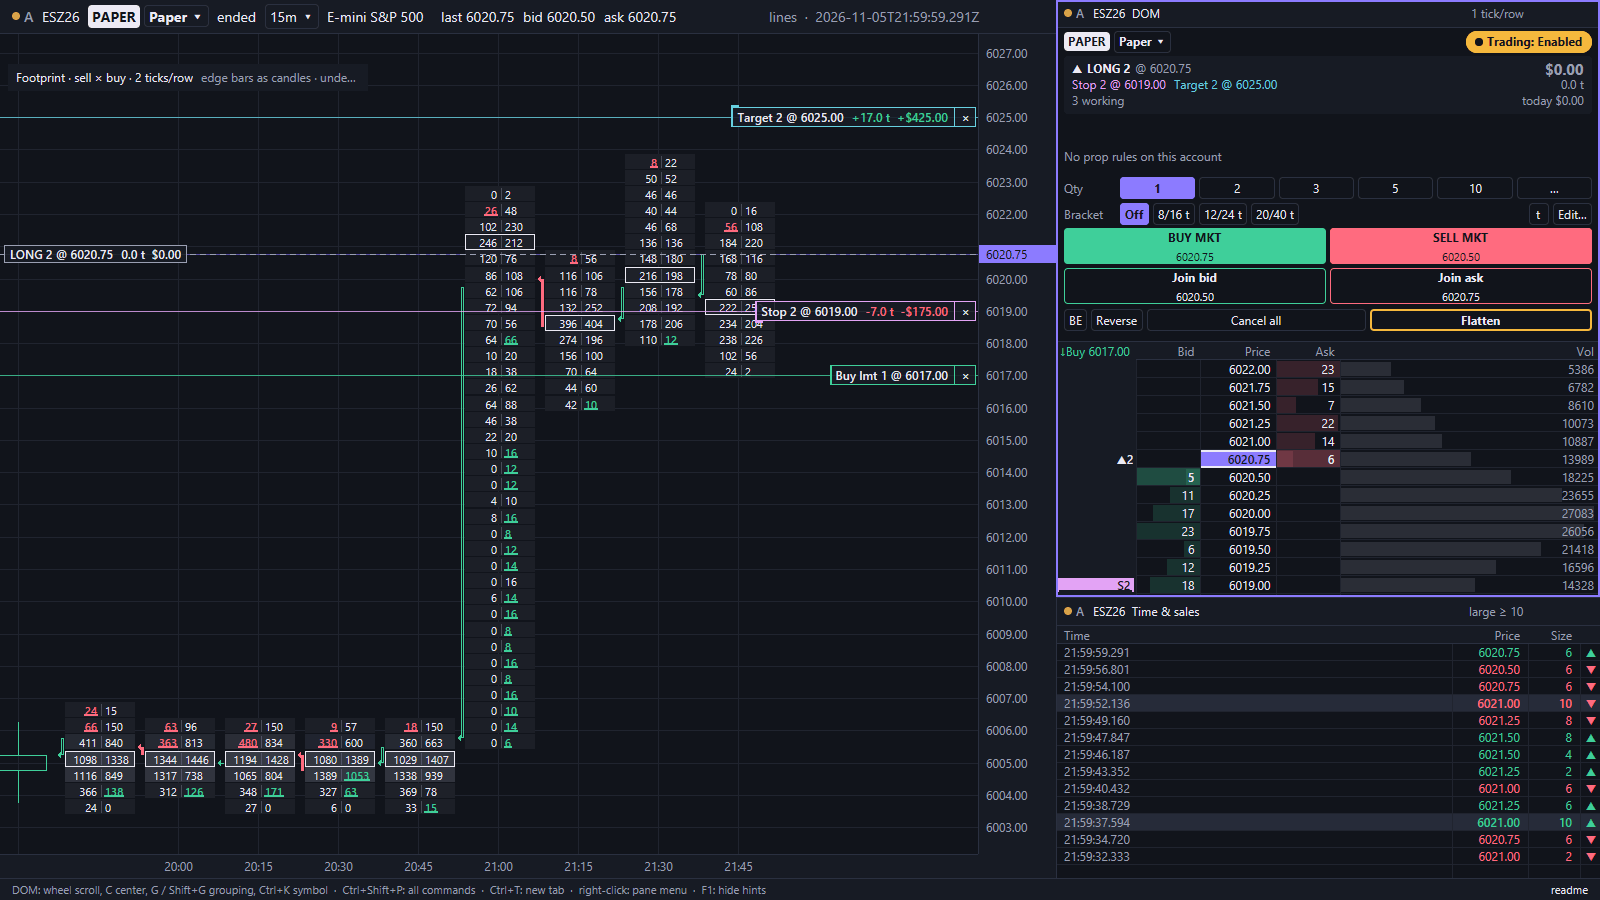
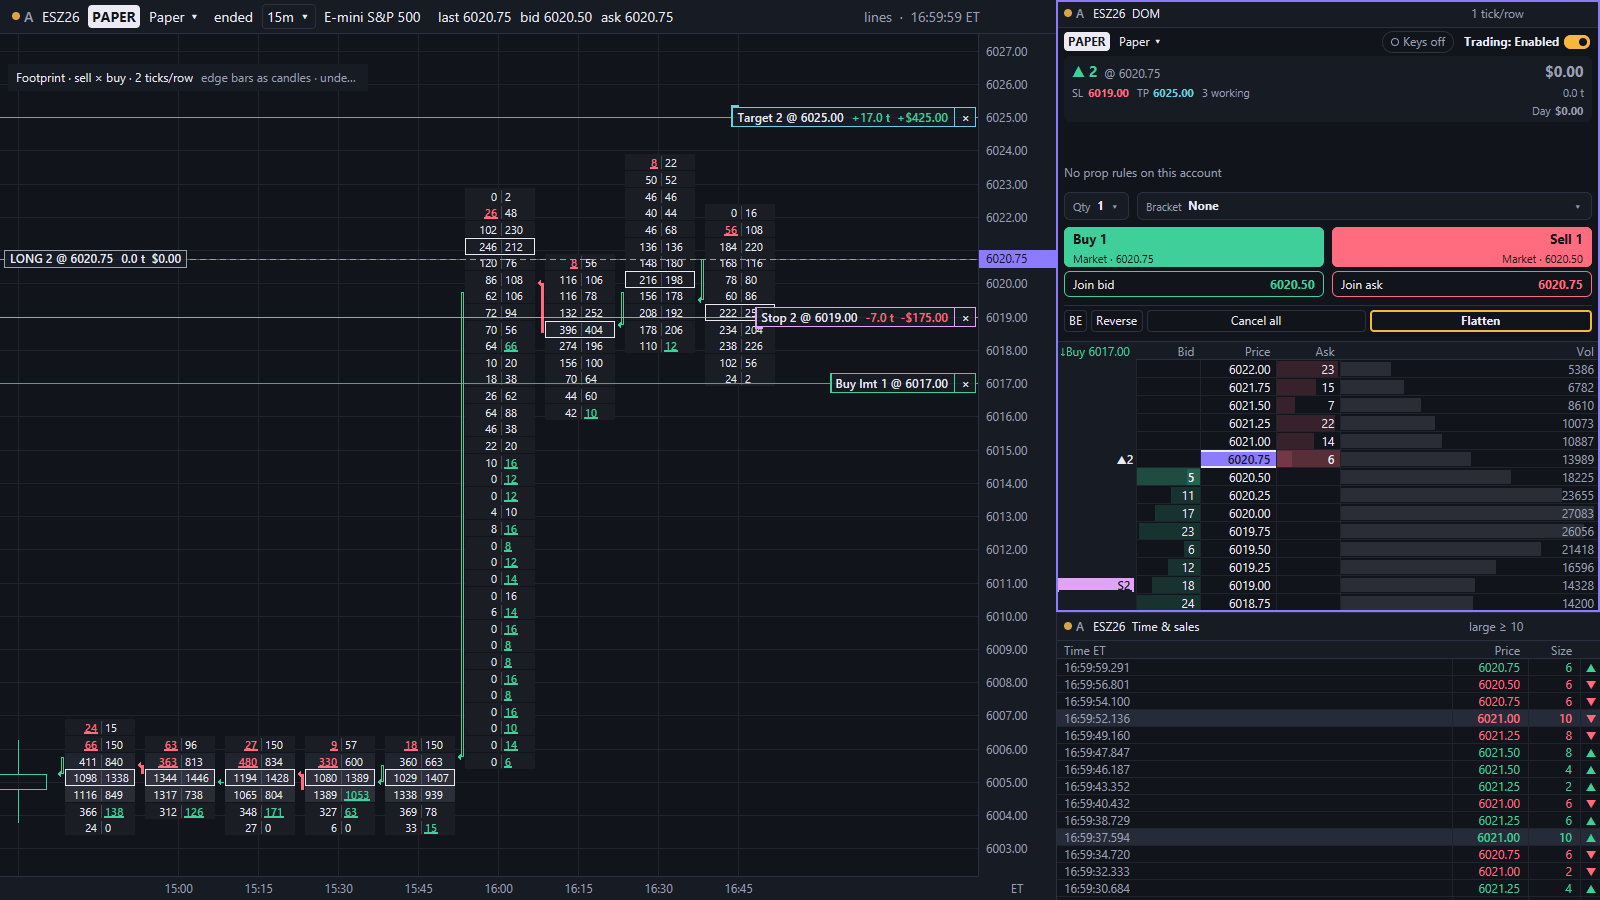
README: refresh for v0.3.12
Trading (trade panel, Positions, Reset paper account, Reverse, SPY option
chart triggers), charts (Volume, ruler, external levels), interface, data
(Record / Stop), in-app updates, and a pre-alpha banner. Three hero images
regenerated from synthetic data; the recipe in docs/architecture.md follows.

diff --git a/README.md b/README.md
@@ -8,36 +8,59 @@
 
 [![CI](https://github.com/anaremore/lines/actions/workflows/ci.yml/badge.svg?branch=main)](https://github.com/anaremore/lines/actions/workflows/ci.yml)
 
-![Dark theme: a footprint chart with a long paper position, its stop and target lines and a working buy limit, beside the DOM and time & sales](docs/img/chart-orders-footprint.png)
+![Dark theme: a footprint chart with a long paper position, its stop and target lines and a working buy limit, beside the DOM with its trade panel and time & sales](docs/img/chart-orders-footprint.png)
 
 <sub>All screenshots use synthetic data, rendered with Lines' screenshot mode.</sub>
 
-## Status: pre-alpha
-
-Lines trades on paper only: no live broker connections and no live order entry. Data comes from a mock futures feed, the Coinbase and Kraken public crypto feeds, and replays of recorded sessions. Live futures connectors (Rithmic, CQG) are planned and not in public builds.
+> [!IMPORTANT]
+> **Pre-alpha. Paper trading only.** Lines has no live order routing: every order goes to a simulated paper account. Public builds read the mock futures feed, Coinbase and Kraken public data, and replays. Official builds add vendor connectors.
 
 ## What works today
 
-- **Data:** a simulated ES futures feed, Coinbase and Kraken public feeds, record and deterministic replay, and a local market-data store for live feeds, so charts and order flow open instantly on restart.
-- **Charts:** minute to weekly candles, plus bars built from counted trades: tick (`500t`), volume (`500v`), range (`10r`) and seconds (`30s`; volume, range and seconds bars are on `main`, after v0.3.0). Footprint, cumulative delta, VWAP with bands, and a volume profile.
-- **Drawings:** lines, rays, trend lines, zones, notes and a measure tool, with color, line style, width and opacity per drawing.
-- **DOM:** a tick-indexed ladder with depth, volume at price and a price trail; click, drag and hotkey paper orders; brackets; Flatten and Cancel all always visible.
-- **Chart trading:** working orders as lines you can drag or cancel, and stop/target handles on the position line.
-- **Risk:** your own guardrails (daily loss, losing-streak cooldown, max trades, max position, no entries before the close) and prop-firm rule presets (trailing drawdown, daily loss, contract cap) that apply to paper accounts.
-- **Journal:** every round trip with exact P&L and fees, MAE/MFE, tags and notes, stats, CSV export.
-- **Workspaces:** grids, tabs, pop-out windows and link groups, saved and restored. Command palette, Settings window, symbol picker.
-- **Look:** dark and light themes, a colorblind-safe palette, and direction never shown by color alone.
+**Trading (paper)**
+- **DOM:** a tick-indexed ladder with depth, volume at price and a price trail; click, drag and hotkey orders; brackets.
+- **Trade panel:** the position card (size, average, open P&L, stop and target, day P&L), quantity and bracket lists, large Buy and Sell, Join bid / Join ask, and BE, Reverse, Cancel all and Flatten always in reach.
+- **One-step Reverse** (Ctrl+Alt+R): cancels, closes reduce-only, then opens the other side as its own order.
+- **Chart trading:** working orders as lines you drag or cancel; stop and target handles on the position line.
+- **Positions pane** (Ctrl+Shift+J): every open position on every account, with Flatten per row and Flatten all.
+- **Reset paper account** from the palette, the account menu or Settings: it flattens first and asks for a second press.
+- **Options on SPY:** an option chain, and an option chart where Entry, Stop and Target are lines on the underlying's price, held as triggers by the trading core ([decision 0029](docs/decisions/0029-option-chart-and-underlying-triggers.md)).
+- **Risk:** your own guardrails (daily loss, losing-streak cooldown, max trades, max position, no entries before the close, economic-calendar blackouts) and prop-firm rule presets (trailing drawdown, daily loss, contract cap).
+- **Journal:** every round trip with exact P&L and fees, MAE/MFE, tags, notes, stats and CSV export.
+
+**Charts**
+- Minute to weekly candles, plus tick (`500t`), volume (`500v`), range (`10r`) and seconds (`30s`) bars.
+- Studies: footprint, volume profile, VWAP with bands, cumulative delta, and Volume in a lower pane or as an overlay.
+- External levels: a plug-in source of price levels drawn on the chart, recorded and replayed with the data.
+- Drawings: lines, rays, trend lines, zones and notes, each with its own style.
+- **Ruler:** Shift+drag measures ticks, points, P&L, bars and time with no tool to pick; move or resize it, and choose which parts show.
+
+**Interface**
+- Right-click menus on panes, tabs, orders and drawings.
+- UI zoom from 80 to 150 % (Ctrl+= / Ctrl+− / Ctrl+0).
+- Floating pop-up panels: palette, symbol picker, studies, style editor and order list.
+- Display time zone: exchange (ET) by default, your system's, or any zone.
+- Dark and light themes, a colorblind-safe palette, and direction never shown by color alone.
+- Workspaces: grids, tabs, pop-out windows and link groups, saved and restored.
+
+**Data**
+- Coinbase and Kraken public feeds (spot and perpetuals), a simulated ES futures feed, and deterministic replay.
+- **Record / Stop recording** from the app: live feeds and levels go to the data folder, with REC in the footer.
+- A local market-data store for live feeds, so charts and order flow open at once on restart.
+
+**Updates**
+- In-app updates on Windows: Lines downloads a new release, checks its SHA-256 and signature, and asks before it restarts. A restart waits while a position, working order or armed trigger is open, and the previous version is kept for rollback. v0.3.12 is the last version you install by hand.
 
 Prices and money are exact integers, never floating point.
 
 | | |
 |---|---|
-| ![A 500-trade tick chart with session VWAP and 1σ/2σ bands](docs/img/tick-chart.png) | ![Light theme: a 5-minute chart with a long paper position, its stop and target, beside the DOM and time & sales](docs/img/light.png) |
-| Tick chart (500 trades per bar) with VWAP bands | Light theme |
+| ![Light theme: a 5-minute chart with a split Volume pane and a paper position, beside the DOM and the Positions pane](docs/img/light.png) | ![Dark theme: a 500-trade tick chart with VWAP bands, external levels and a ruler measurement](docs/img/tick-chart.png) |
+| Light theme, Volume study and Positions pane | Tick chart with VWAP bands, levels and the ruler |
 
 ## Install
 
-Download your platform's archive from the [latest release](https://github.com/anaremore/lines/releases): a zip for Windows x64 and macOS (Apple silicon), a tar.gz for Linux x64. Extract it and run `lines.exe` (Windows), `Lines.app` (macOS) or `lines` (Linux). SHA-256 checksums are attached. Builds are not code-signed yet, so Windows and macOS may warn on first launch.
+Download your platform's archive from the [latest release](https://github.com/anaremore/lines/releases): a zip for Windows x64 and macOS (Apple silicon), a tar.gz for Linux x64. Extract it and run `lines.exe` (Windows), `Lines.app` (macOS) or `lines` (Linux). SHA-256 checksums are attached. Builds aren't code-signed, so Windows and macOS may warn on first launch. Windows updates itself from then on; on macOS and Linux, download each new release.
 
 ## Quick start
 
@@ -45,29 +68,33 @@ Download your platform's archive from the [latest release](https://github.com/an
 lines --source mock                           # simulated ES futures, any hour; paper trading works
 lines --source coinbase --instrument BTC/USD  # live public crypto data, 24/7
 lines --source kraken --instrument BTC/USD.KR
+lines --source replay --replay session.lfr --speed 10
 lines --help                                  # every option
 ```
 
-To trade on paper, enable trading in the DOM's header (or Ctrl+Shift+Space), then click the bid column to buy and the ask column to sell. Shift+click places a stop.
+To trade on paper, turn on the Trading switch in the DOM's trade panel (or Ctrl+Shift+Space), then click the bid column to buy and the ask column to sell. Shift+click places a stop.
 
 ## Keyboard basics
 
-"Ctrl" is Cmd on macOS.
+"Ctrl" is Cmd on macOS. The palette lists every command with its key.
 
 | Key | Action |
 |---|---|
-| Ctrl+Shift+P | Command palette: every command, with its key |
+| Ctrl+Shift+P | Command palette |
 | Ctrl+, | Settings |
 | Ctrl+K, or type a letter on a chart | Symbol picker |
-| `5` / `1h` / `500t` + Enter (`500v` / `10r` / `30s` after v0.3.0) | Change the chart's timeframe |
-| Ctrl+I | Studies (VWAP, volume profile, footprint, cumulative delta) |
-| Alt+H / Alt+T / Alt+Z / Alt+N / Alt+U | Horizontal line, trend line, zone, note, measure |
-| Ctrl+Shift+Space | Enable or disable DOM trading |
+| `5` / `1h` / `500t` / `500v` / `10r` / `30s` + Enter | Change the chart's timeframe |
+| Ctrl+I | Studies |
+| Shift+drag on a chart | Ruler |
+| Alt+H / Alt+T / Alt+Z / Alt+N | Horizontal line, trend line, zone, note |
+| Ctrl+Shift+Space | Trading on or off (DOM) |
 | Ctrl+Alt+B / Ctrl+Alt+S | Buy / sell market |
+| Ctrl+Alt+R | Reverse |
 | Ctrl+Shift+F / Ctrl+Shift+A | Flatten / cancel all orders |
+| Ctrl+Shift+J | Positions |
+| Ctrl+= / Ctrl+− / Ctrl+0 | UI zoom |
 | Ctrl+Shift+D / Ctrl+Shift+E | Hide or show the DOM / time & sales |
 | Ctrl+T, Ctrl+PageDown | New tab, next tab |
-| F1 | Hide or show the key-hint bar |
 
 ## Build from source
 
@@ -86,7 +113,7 @@ Architecture and every CLI flag: [`docs/architecture.md`](docs/architecture.md).
 
 ## Roadmap and known gaps
 
-- [ROADMAP.md](ROADMAP.md): what is done and what comes next (chart trading phase 2, strategies, live connectors).
+- [ROADMAP.md](ROADMAP.md): what's done and what comes next.
 - [docs/known-gaps.md](docs/known-gaps.md): the honest list of current limits.
 
 Troubleshooting: run "Export diagnostics" from the command palette and attach the zip. It stays on your computer until you share it, with credentials and account IDs removed.

diff --git a/docs/architecture.md b/docs/architecture.md
@@ -97,9 +97,10 @@ cargo run -p lines-app --features screenshot -- --replay recordings/x.lfr \
 #   cargo run -p lines-feed --example synth_session -- recordings/synth.lfr --depth
 #   P="buy 2 @ 6021.00 bracket 8/16; ack; buy 1 @ 6017.00; ack"
 #   (`lines` here is a `--features screenshot` build; release binaries can't take screenshots)
-#   lines --replay recordings/synth.lfr --workspace docs/img/footprint-trading.json --size 1600x900 --theme dark --paper "$P" --enable-trading --screenshot hero.png
-#   lines --replay recordings/synth.lfr --workspace docs/img/trading-5m.json --size 1600x900 --theme light --paper "$P" --enable-trading --screenshot light.png
-#   lines --replay recordings/synth.lfr --layout chart --timeframe 500t --vwap "eth/1,2" --size 1200x700 --theme dark --screenshot tick.png
+#   lines --replay recordings/synth.lfr --workspace docs/img/footprint-trading.json --size 1600x900 --theme dark --paper "$P" --enable-trading --hide-hints --screenshot hero.png
+#   lines --replay recordings/synth.lfr --workspace docs/img/trading-5m.json --size 1600x900 --theme light --paper "$P" --enable-trading --volume split --hide-hints --screenshot light.png
+#   (tick.png needs a `--features screenshot,demo-levels` build)
+#   lines --replay recordings/synth.lfr --layout chart --timeframe 500t --vwap "eth/1,2" --demo-levels --shift-drag 840,570:990,300 --hide-hints --size 1200x700 --theme dark --screenshot tick.png
 #   then quantize each (hero → chart-orders-footprint.png, light → light.png, tick → tick-chart.png):
 #   magick hero.png -strip +dither -colors 256 PNG8:docs/img/chart-orders-footprint.png
 # Colours: --theme dark|light, --palette standard|cb (colourblind: blue up, orange down),
